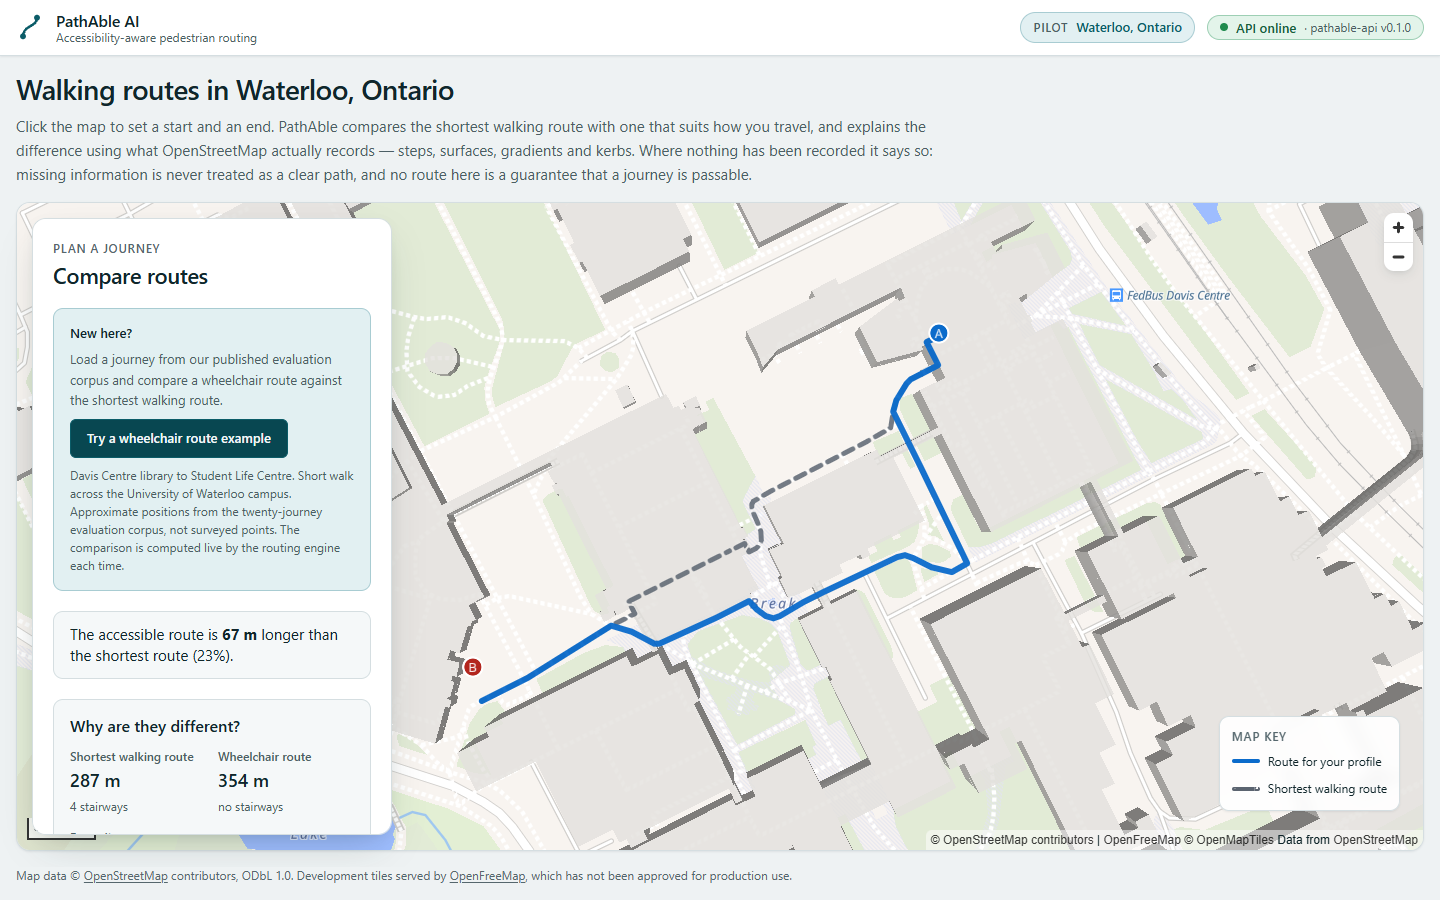
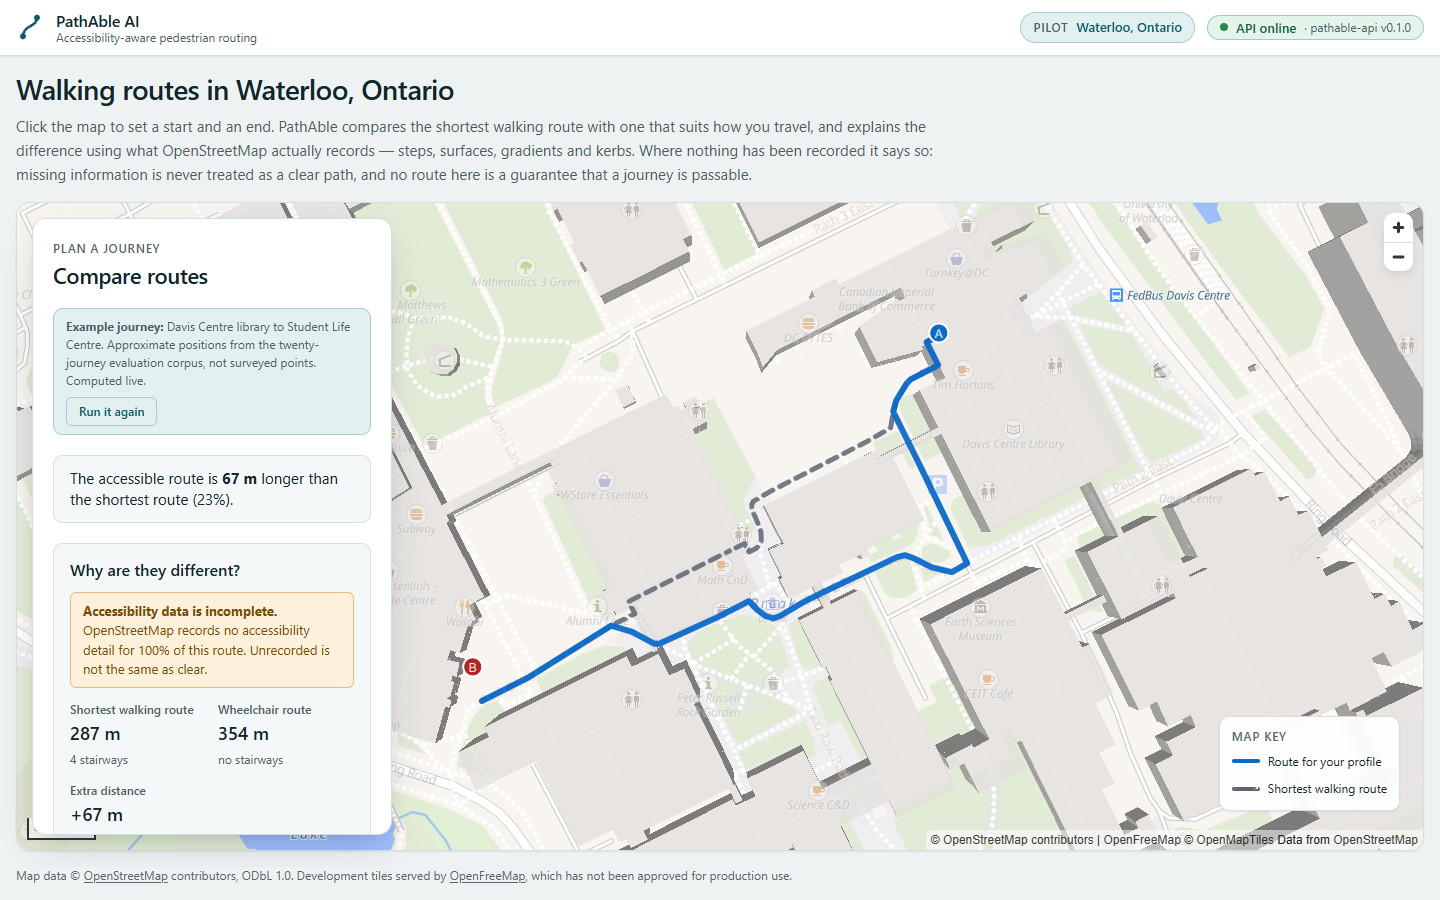
docs(evidence): re-capture the demo screenshots at the corrected commit
Six captures at c41b5c0, replacing the ones taken before the uncertainty
summary existed. The first screen now carries the incomplete-data line above
the distances, and the provenance records the measured positions rather than an
impression: the summary sits at y=592 desktop and y=554 mobile, and the
per-category detail is still below the fold and reached by scrolling.

The provenance also now records the media attribution the tile sources require.
OpenFreeMap asks for "OpenFreeMap © OpenMapTiles Data from OpenStreetMap" when
its tiles appear in media; MapLibre's control renders exactly that inside every
captured frame, and OpenMapTiles additionally wants the credit in text near the
image, which the provenance provides. Checked against the projects' own pages
on 2026-09-13.

diff --git a/docs/evidence/screenshots/DEMO_PROVENANCE.md b/docs/evidence/screenshots/DEMO_PROVENANCE.md
@@ -5,19 +5,20 @@ Every image below was captured from the production container images running on
 one laptop, against the real Waterloo dataset, with the routes computed live by
 the engine at capture time.
 
-|                  |                                                                                                                                                                                                                           |
-| ---------------- | ------------------------------------------------------------------------------------------------------------------------------------------------------------------------------------------------------------------------- |
-| Commit           | `1af7c331dc05ba292e2fdc635b0620f90d1bf881` (branch `feat/recruiter-demo`)                                                                                                                                                 |
-| Captured         | 2026-09-13                                                                                                                                                                                                                |
-| Environment      | Isolated Compose project `pathable-envelope` — API and web production images built from that commit, PostGIS 17.5, all on `localhost`. See [`docs/deployment/PRODUCTION_SMOKE.md`](../../deployment/PRODUCTION_SMOKE.md). |
-| Not a deployment | No cloud provider, no public URL, no custom domain, no hosting account. The web container was reachable only at `http://localhost:3001`.                                                                                  |
-| Dataset          | `51585450-8ff5-409d-a02e-66d5a3c5e260`                                                                                                                                                                                    |
[1 lines of base64/hex data omitted]
-| Network          | 155,714 nodes · 180,554 physical segments · 361,108 directed edges, from Geofabrik's Ontario extract                                                                                                                      |
-| Elevation        | NRCan HRDEM 1 m LiDAR                                                                                                                                                                                                     |
-| Journey          | `campus-library-to-student-life` from the committed twenty-journey corpus: Davis Centre library (−80.5424, 43.4728) to the Student Life Centre (−80.5449, 43.4715)                                                        |
-| Profile          | Wheelchair                                                                                                                                                                                                                |
-| Basemap tiles    | OpenFreeMap, a development convenience that is not approved for production                                                                                                                                                |
+|                   |                                                                                                                                                                                                                                                                                                                                                                                                                                                                                                            |
+| ----------------- | ---------------------------------------------------------------------------------------------------------------------------------------------------------------------------------------------------------------------------------------------------------------------------------------------------------------------------------------------------------------------------------------------------------------------------------------------------------------------------------------------------------- |
+| Commit            | `c41b5c0f228c07210bc1d84a35fd8f7865de004a` (branch `feat/recruiter-demo`)                                                                                                                                                                                                                                                                                                                                                                                                                                  |
+| Captured          | 2026-09-13                                                                                                                                                                                                                                                                                                                                                                                                                                                                                                 |
+| Environment       | Isolated Compose project `pathable-envelope` — API and web production images built from that commit, PostGIS 17.5, all on `localhost`. See [`docs/deployment/PRODUCTION_SMOKE.md`](../../deployment/PRODUCTION_SMOKE.md).                                                                                                                                                                                                                                                                                  |
+| Not a deployment  | No cloud provider, no public URL, no custom domain, no hosting account. The web container was reachable only at `http://localhost:3001`.                                                                                                                                                                                                                                                                                                                                                                   |
+| Dataset           | `51585450-8ff5-409d-a02e-66d5a3c5e260`                                                                                                                                                                                                                                                                                                                                                                                                                                                                     |
[1 lines of base64/hex data omitted]
+| Network           | 155,714 nodes · 180,554 physical segments · 361,108 directed edges, from Geofabrik's Ontario extract                                                                                                                                                                                                                                                                                                                                                                                                       |
+| Elevation         | NRCan HRDEM 1 m LiDAR                                                                                                                                                                                                                                                                                                                                                                                                                                                                                      |
+| Journey           | `campus-library-to-student-life` from the committed twenty-journey corpus: Davis Centre library (−80.5424, 43.4728) to the Student Life Centre (−80.5449, 43.4715)                                                                                                                                                                                                                                                                                                                                         |
+| Profile           | Wheelchair                                                                                                                                                                                                                                                                                                                                                                                                                                                                                                 |
+| Basemap tiles     | OpenFreeMap (OpenMapTiles schema, OpenStreetMap data), a development convenience that is not approved for production                                                                                                                                                                                                                                                                                                                                                                                       |
+| Media attribution | The captured frames carry the credit OpenFreeMap requires for media: **OpenFreeMap © OpenMapTiles Data from OpenStreetMap**, rendered by MapLibre's attribution control. OpenStreetMap's guidelines require static images to be attributed as interactive maps are; OpenMapTiles asks for the same credit "in a textual description near the image", which the section below provides. Gradients: _Contains information licensed under the Open Government Licence – Canada._ Sources checked 2026-09-13. |
 
 ## What the engine returned at capture time
 
@@ -48,9 +49,13 @@ published and can be checked.
 
 The `-03-panel` captures are element screenshots of the scrollable panel, so they
 show content that is below the fold in the viewport captures. They are included
-precisely so the evidence does not imply that everything fits on one screen: on
-both viewports the "Not recorded" evidence line sits below the fold and is
-reached by scrolling.
+precisely so the evidence does not imply that everything fits on one screen.
+
+What is in the viewport without scrolling, measured rather than eyeballed: the
+"Accessibility data is incomplete" summary (y=592 desktop, y=554 mobile), both
+route figures, and the extra-distance figure. What is not: the detailed
+per-category "Not recorded" evidence line, which is reached by scrolling and is
+the fuller version of the summary above it.
 
 ## Reproducing them
 
